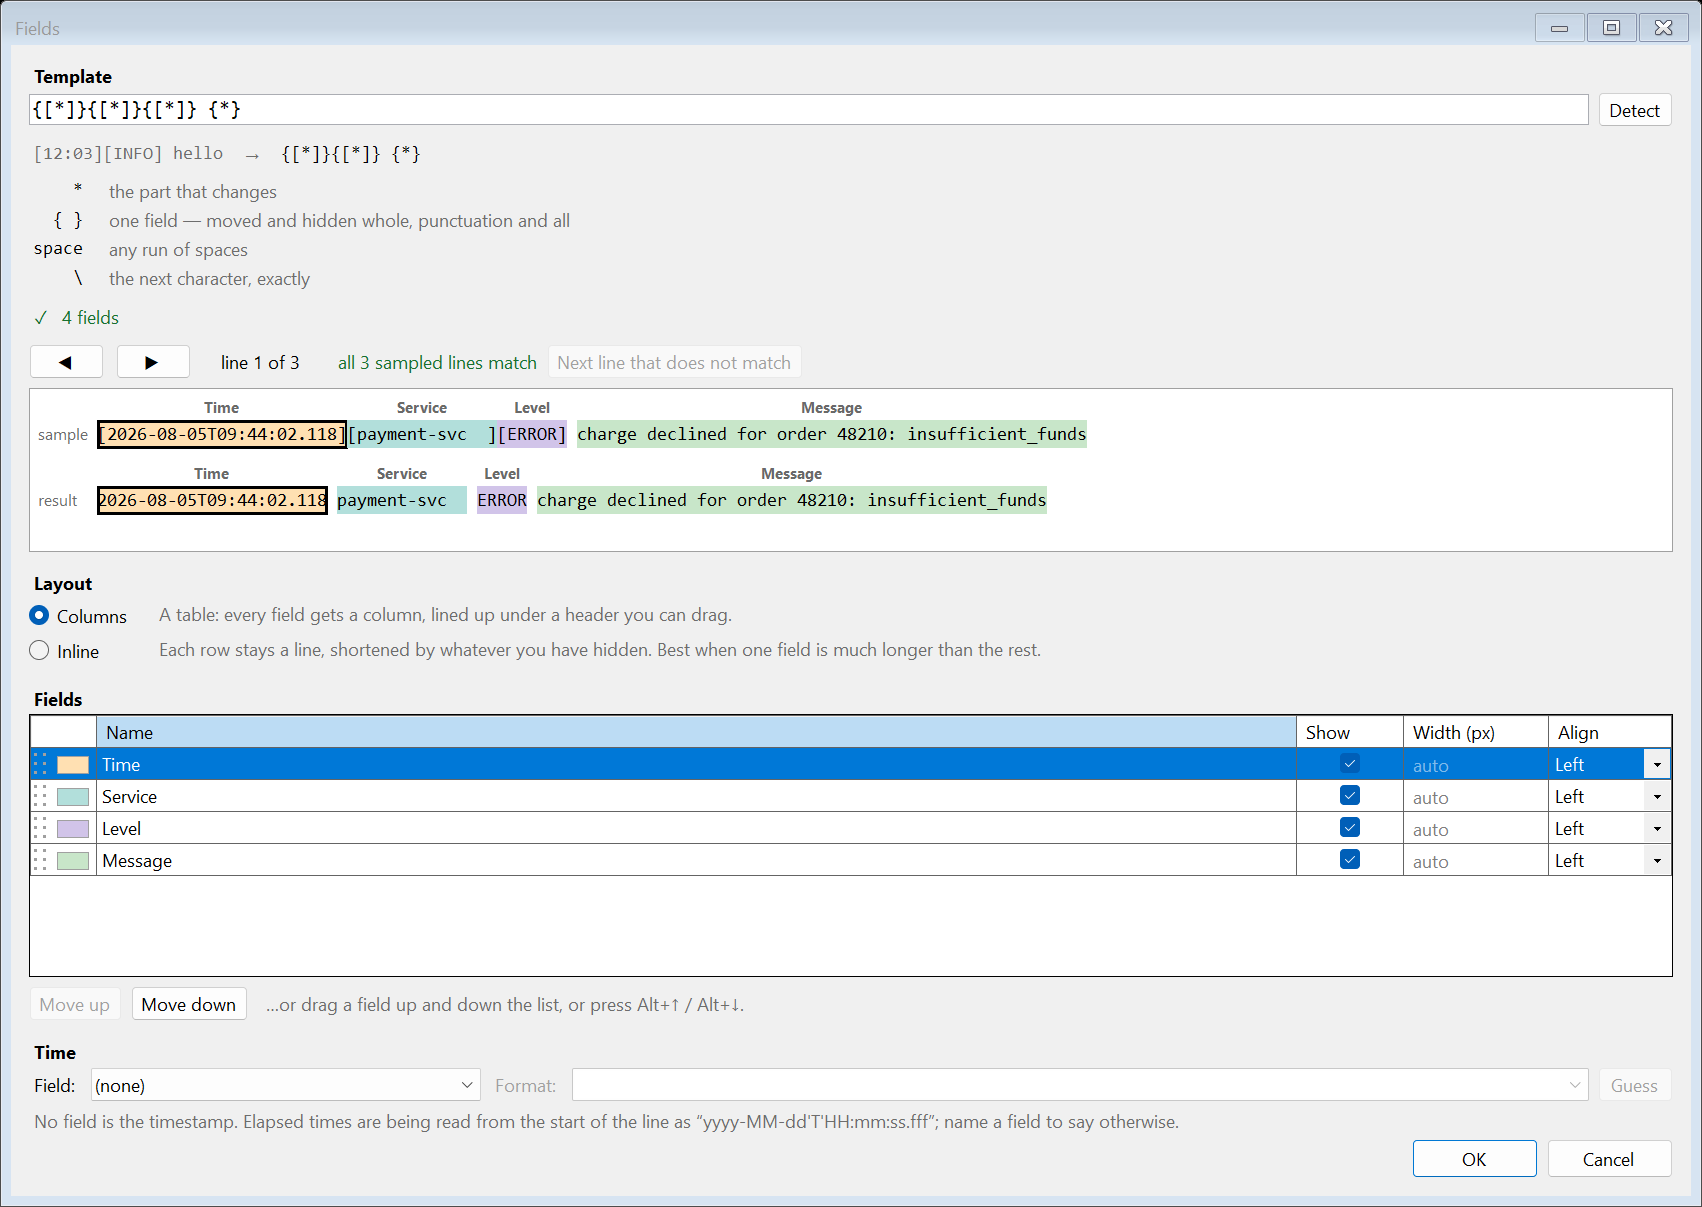
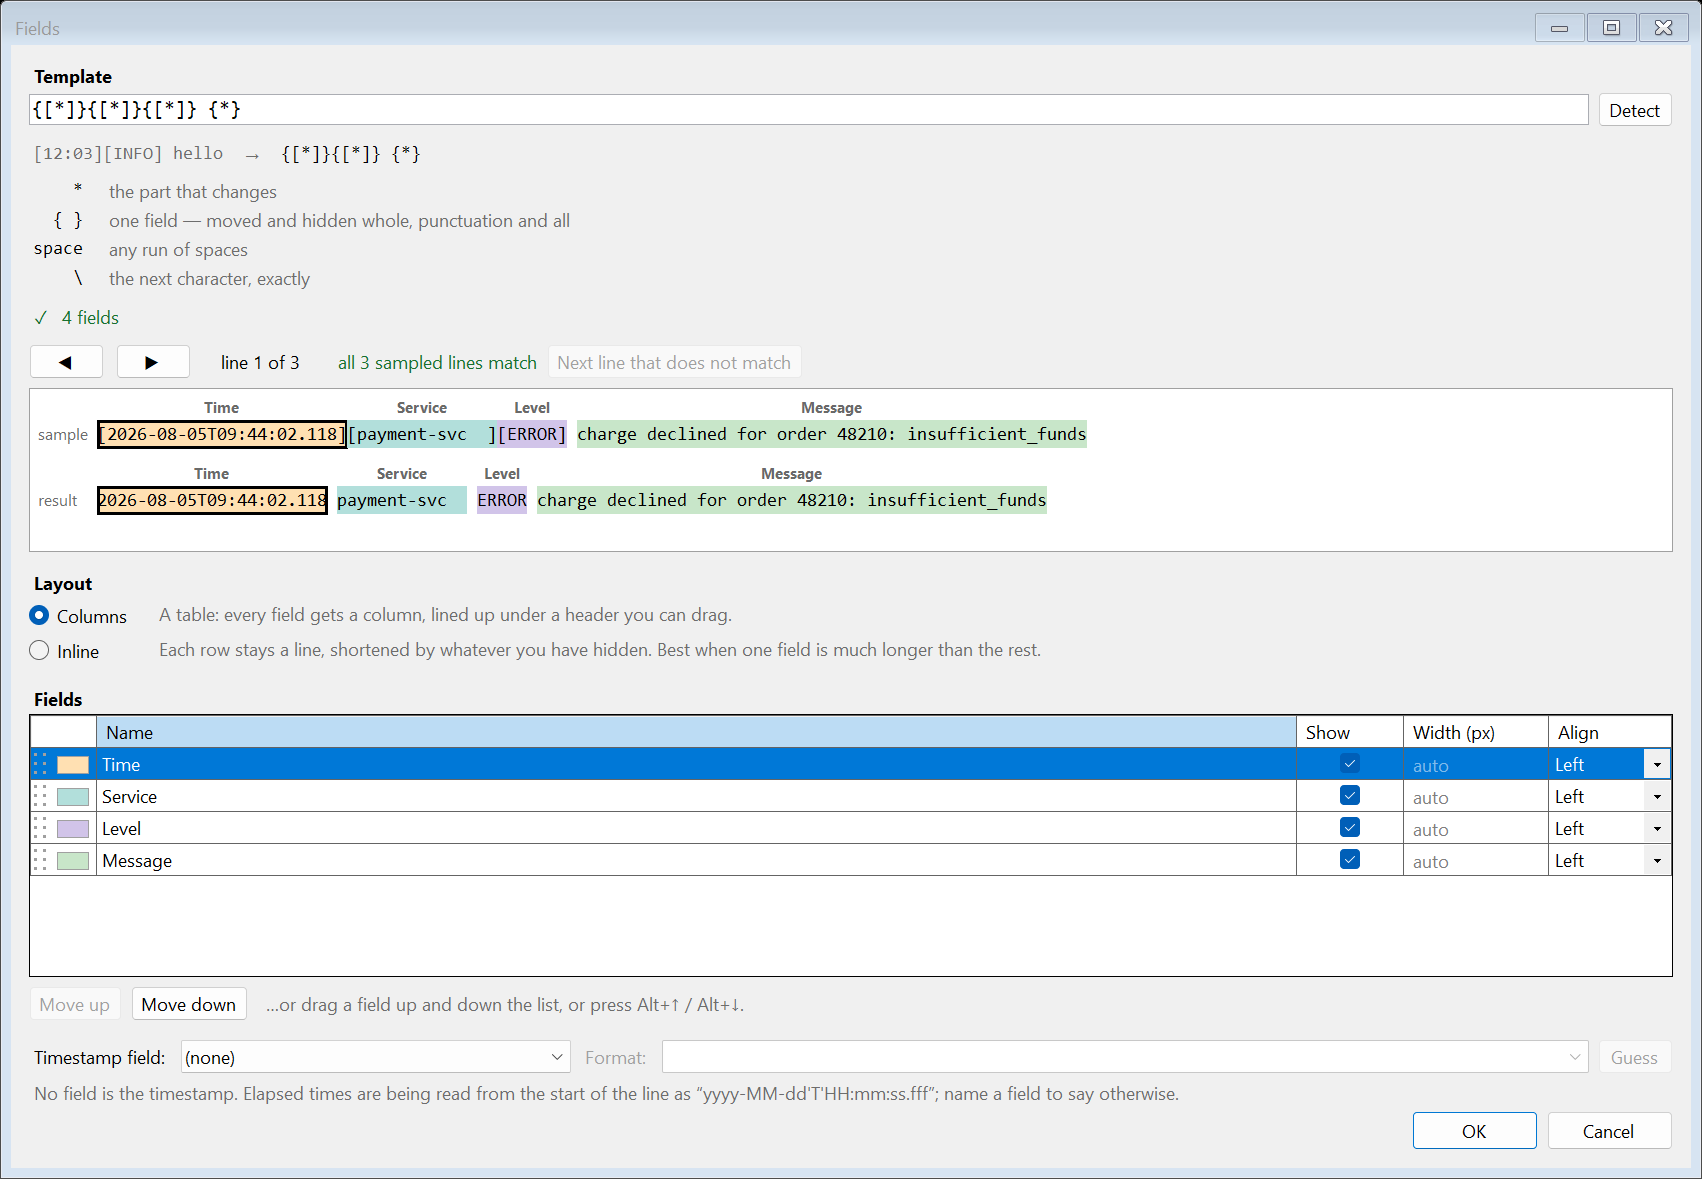
Let the Fields dialog scroll on a screen it does not fit
CI went red on three layout checks in the Fields dialog, all on the build
machine's 1024x768 screen and none of them here. One cause: the Time section I
added was 73 pixels of a dialog that had 25 to spare.

THE THREE CHECKS SHARED AN UNSTATED PRECONDITION - that the screen is tall
enough for the dialog's natural size. Nothing hangs off the edge, nothing
scrolls, and the list has spare rows are all true only then. On a shorter screen
the dialog is MEANT to do the opposite: GiveTheContentAFloor holds the content to
what it needs and the panel scrolls, because the alternative is the list squeezed
away and the OK button pushed out of reach. The checks were passing on the luck
of a runner's screen size and would have failed on any 768-pixel laptop the day
the font changed.

So they say which case they are in now, and the short-screen case asserts what
that case actually promises. The reachability half was already covered - the
16pt "squashed" case quarters the height and walks the scroll to the buttons - so
nothing new was needed there, and the squeeze I first wrote turned out to be
unreachable anyway: MinimumSize will not let the dialog go below its own floor.

Reproduced locally by capping the dialog's idea of the screen at 768, which on
this display is a harsher squeeze than CI's. That found a fourth fault nobody had
seen: the swatch-repaint check reads what the grid was ASKED to draw, and a cell
[…]

diff --git a/src/Cascade.App/SelfTest.cs b/src/Cascade.App/SelfTest.cs
@@ -836,19 +836,40 @@ internal static class SelfTest
 
                 // Everything on the dialog has to sit inside it, at any font size or DPI - a row that
                 // overflows is how a dialog ends up with its buttons off the bottom edge.
-                var stray = AllControls(dlg).Where(c => c.Visible && c.Parent is not null)
-                    .Select(c => (c, r: Where(c)))
-                    .Where(t => t.r.Right > dlg.ClientSize.Width + 1 || t.r.Bottom > dlg.ClientSize.Height + 1)
-                    .ToList();
-                ok &= Check("nothing on the dialog hangs off its edge", stray.Count == 0,
-                            string.Join(", ", stray.Select(t => $"{t.c.GetType().Name}'{t.c.Text}' {t.r}")));
+                //
+                // What "inside" means depends on the screen. This dialog is taller than a 768-pixel one can
+                // show, and it is MEANT to be: the content is held to its floor and the panel around it
+                // scrolls, or the list would be squeezed away and the OK button pushed out of reach. So the
+                // claim is "nothing is unreachable", which on a roomy screen means nothing hangs off the
+                // edge and on a short one means everything can be scrolled to. Checked BOTH ways here,
+                // whatever this machine's screen is, because CI's is 1024x768 and a developer's is not.
+                bool RunsInside(string where, Control edge)
+                {
+                    var over = AllControls(dlg).Where(c => c.Visible && c.Parent is not null)
+                        .Select(c => (c, r: Where(c)))
+                        .Where(t => t.r.Right > edge.ClientSize.Width + 1 || t.r.Bottom > edge.ClientSize.Height + 1)
+                        .ToList();
+                    return Check($"nothing on the dialog hangs off {where}", over.Count == 0,
+                                 string.Join(", ", over.Select(t => $"{t.c.GetType().Name}'{t.c.Text}' {t.r}")));
+                }
 
-                // Opened at its own size it fits, so there must be no scroll bar: one that is always there
-                // takes width off the content and says the dialog is bigger than it is.
                 var fits = dlg.ContentScrollForTesting;
-                ok &= Check("and at its own size there is nothing to scroll",
-                            !fits.VerticalScroll.Visible && !fits.HorizontalScroll.Visible,
-                            $"content {fits.DisplayRectangle} in {fits.ClientSize}; {dlg.ContentFloorForTesting}");
+                bool roomy = !fits.VerticalScroll.Visible;
+                if (roomy)
+                {
+                    ok &= RunsInside("its edge", dlg);
+                    // Opened at its own size it fits, so there must be no scroll bar: one that is always
+                    // there takes width off the content and says the dialog is bigger than it is.
+                    ok &= Check("and at its own size there is nothing to scroll",
+                                !fits.HorizontalScroll.Visible,
+                                $"content {fits.DisplayRectangle} in {fits.ClientSize}; {dlg.ContentFloorForTesting}");
+                }
+                else
+                {
+                    ok &= Check("on a screen too short for it, the content scrolls rather than being squeezed",
+                                fits.DisplayRectangle.Height >= fits.ClientSize.Height,
+                                $"content {fits.DisplayRectangle} in {fits.ClientSize}; {dlg.ContentFloorForTesting}");
+                }
 
                 // Width and alignment mean nothing to the Inline layout, so they are put out of reach
                 // rather than left looking as though they do something.
@@ -1308,9 +1329,14 @@ internal static class SelfTest
             sized.Shown += (_, _) => sized.BeginInvoke(sized.Close);
             sized.ShowDialog(opener);
             Pump();
-            ok &= Check($"the field list opens with room for the fields and a few spare ({sized.ListRoomInRowsForTesting} rows for {sized.RowCountForTesting} fields)",
-                        sized.ListRoomInRowsForTesting >= sized.RowCountForTesting + 2,
-                        $"{sized.ClientSize}");
+            // The spare rows come out of whatever room is left once everything else on the dialog has had
+            // its own, so a screen too short for the dialog has none to give - and the list is then held at
+            // its floor rather than squeezed away, which is the promise that actually matters.
+            bool spare = sized.ListRoomInRowsForTesting >= sized.RowCountForTesting + 2;
+            ok &= Check($"the field list opens with room for the fields and a few spare " +
+                        $"({sized.ListRoomInRowsForTesting} rows for {sized.RowCountForTesting} fields)",
+                        spare || sized.ListIsAtItsFloorForTesting,
+                        $"{sized.ClientSize}; {sized.ContentFloorForTesting}");
             var middle = new Point(sized.Left + sized.Width / 2, sized.Top + sized.Height / 2);
             var screen = Screen.FromControl(opener).WorkingArea;
             var want = new Point(screen.Left + screen.Width / 2, screen.Top + screen.Height / 2);

diff --git a/src/Cascade.App/Dialogs/ColumnsDialog.cs b/src/Cascade.App/Dialogs/ColumnsDialog.cs
@@ -65,9 +65,8 @@ public sealed class ColumnsDialog : DialogBase
     private readonly Button _down = new() { Text = "Move d&own", AutoSize = true };
     private readonly ToolTip _tips = new() { AutoPopDelay = 20000, InitialDelay = 400, ReshowDelay = 100 };
 
-    // No Alt key of its own: F, I, E and L are all claimed elsewhere in this dialog, and the "Tim&e"
-    // heading directly above already lands on this box - a label's mnemonic moves focus to the next stop.
-    private readonly Label _timeFieldLabel = new() { Text = "Field:", AutoSize = true };
+    // Carries the section's own Alt key now that there is no heading above it to hold one.
+    private readonly Label _timeFieldLabel = new() { Text = "Tim&estamp field:", AutoSize = true };
     private readonly ComboBox _timeField = new() { DropDownStyle = ComboBoxStyle.DropDownList, AccessibleName = "Time field" };
     private readonly Label _timeLabel = new() { Text = "Format:", AutoSize = true };
     private readonly ComboBox _timeFormat = new() { DropDownStyle = ComboBoxStyle.DropDown, AccessibleName = "Time format" };
@@ -336,8 +335,9 @@ public sealed class ColumnsDialog : DialogBase
         var dragNote = new Label { Text = "\u2026or drag a field up and down the list, or press Alt+\u2191 / Alt+\u2193.", AutoSize = true, ForeColor = SystemColors.GrayText };
         Row(Flow(_up, _down, Centred(dragNote, 10)), SizeType.AutoSize, 0, 6);
 
-        Row(Heading("Tim&e"), SizeType.AutoSize, 0, 12);
-        Row(TimeRow(), SizeType.AutoSize, 0, 2);
+        // No heading of its own: the section is one row, and "Timestamp field" says what a heading over it
+        // would have said. That is a row of the dialog's height back, which a screen 768 pixels tall needs.
+        Row(TimeRow(), SizeType.AutoSize, 0, 12);
         Row(_timeStatus, SizeType.AutoSize, 0, 4);
 
         var buttons = OkCancelRow(out var ok, out _);
@@ -1363,7 +1363,15 @@ public sealed class ColumnsDialog : DialogBase
     /// that a cell was left stale is to watch what the grid was asked to draw.</summary>
     private readonly List<int> _swatchPaints = [];
 
-    internal void ForgetSwatchPaintsForTesting() => _swatchPaints.Clear();
+    internal void ForgetSwatchPaintsForTesting()
+    {
+        // A cell nobody can see is never painted, whatever it was told - so on a screen short enough to
+        // scroll the list out of the panel, bring it back first or the reading is about the scroll position
+        // rather than about the invalidation.
+        _scroll.ScrollControlIntoView(_list);
+        _list.Update();
+        _swatchPaints.Clear();
+    }
 
     internal int[] SwatchPaintsForTesting()
     {
@@ -1480,6 +1488,11 @@ public sealed class ColumnsDialog : DialogBase
     internal int SelectedRowForTesting => _list.CurrentRow?.Index ?? -1;
     internal int ListRoomInRowsForTesting
         => _list.ClientSize.Height / Math.Max(1, _list.Rows.Count > 0 ? _list.Rows[0].Height : _list.RowTemplate.Height);
+
+    /// <summary>Whether the list still has the least room it is ever held to. A screen with nothing to
+    /// spare leaves it exactly that and no more, so this is the promise to check when there are no spare
+    /// rows to ask for. Compared where both figures are known, so neither can drift from the other.</summary>
+    internal bool ListIsAtItsFloorForTesting => _list.Height >= LeastListHeight;
     internal void DetectForTesting() => Detect();
     internal void ApplyForTesting() => Apply();
 

diff --git a/src/Cascade.Core/Timing/ElapsedText.cs b/src/Cascade.Core/Timing/ElapsedText.cs
@@ -103,9 +103,6 @@ public static class ElapsedText
     /// box, so the reader can see the feature is there and waiting for a selection.</summary>
     public const string None = "\u2014";
 
-    /// <summary>Nothing at all, for a row whose line carries no time.</summary>
-    public static string Blank => Nothing;
-
     private static long Pow10(int n)
     {
         long v = 1;
